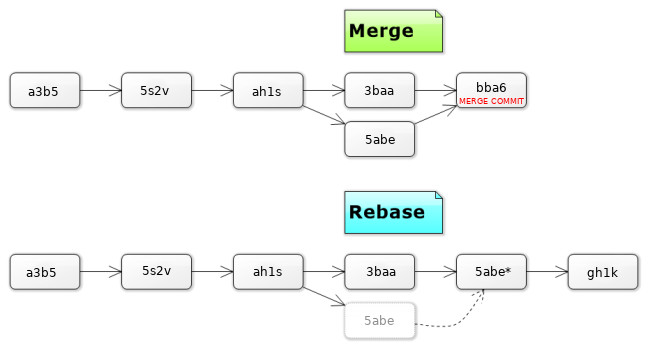
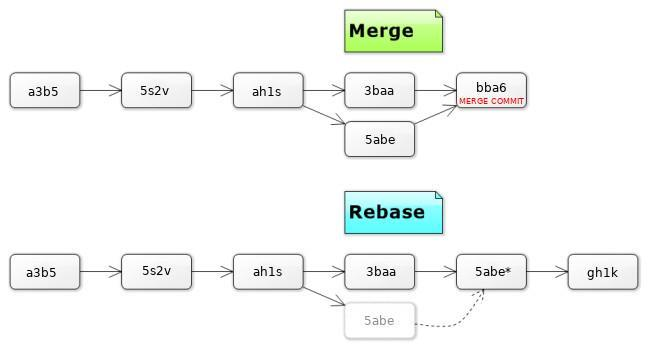
Replace png pictures with jpg
With compression quality 80%, it saves half of images size.

diff --git a/slides/index.html b/slides/index.html
@@ -89,7 +89,7 @@
                 <h2>VCS to dobra rzecz</h2>
 
                 <p>
-                    <img src="img/before-vcs.png" style="margin-bottom:0"/><br/>
+                    <img src="img/before-vcs.jpg" style="margin-bottom:0"/><br/>
                     <small>Tak to się kiedyś robiło ;)</small>
                 </p>
                 <p>
@@ -108,14 +108,14 @@
 
             <section data-transition="slide-in none-out">
                 <h2>Konsola & Gitk & Kdiff3</h2>
-                <img src="img/many-git-tools.png" style="border:none; box-shadow:none"/>
+                <img src="img/many-git-tools.jpg" style="border:none; box-shadow:none"/>
                 <aside class="notes">
                     Poprzez narzędzia mamy na myśli również integracje w IDE.
                 </aside>
             </section>
             <section data-transition="none-in slide-out">
                 Wielu ludzi upiera się, że zarządzania gitem z konsoli nie spróbuje, że pisanie zamiast klikania to przeżytek
-                <img src="img/daj-szanse-konsoli.png"/>
+                <img src="img/daj-szanse-konsoli.jpg"/>
             </section>
         </section>
 
@@ -250,7 +250,7 @@
             </section>
             <section>
                 <h3>Przykładowa konfiguracja</h3>
-                <img src="img/example-gitconfig.png"/>
+                <img src="img/example-gitconfig.jpg"/>
             </section>
             <section>
                 Pytania?
@@ -341,7 +341,7 @@
         <section>
             <section>
                 <h3>Flow</h3>
-                <img src="img/git_working.png"/>
+                <img src="img/git_working.jpg"/>
             </section>
             <section>
                 <h2>Working directory,</br>staging area, commit</h2>
@@ -406,56 +406,56 @@
                 Ukazanie różnicy pomiędzy ostatnią wersją, a jednocześnie snapshot wszystkich plików w projekcie, posiadający identyfikator
                 SHA-1.
                 <p>
-                    <img src="img/commit-example.png"/>
+                    <img src="img/commit-example.jpg"/>
                 </p>
             </section>
             <section data-transition="slide-in none-out">
                 <h3>Przykład stagowania (git add)</h3>
-                <img src="img/git-work-example/git-work-example-part1.png"/>
+                <img src="img/git-work-example/git-work-example-part1.jpg"/>
             </section>
             <section data-transition="none-in none-out">
                 <h3>Przykład stagowania (git add)</h3>
-                <img src="img/git-work-example/git-work-example-part2.png"/>
+                <img src="img/git-work-example/git-work-example-part2.jpg"/>
             </section>
             <section data-transition="none-in none-out">
                 <h3>Przykład stagowania (git add)</h3>
-                <img src="img/git-work-example/git-work-example-part3.png"/>
+                <img src="img/git-work-example/git-work-example-part3.jpg"/>
             </section>
             <section data-transition="none-in none-out">
                 <h3>Przykład stagowania (git add)</h3>
-                <img src="img/git-work-example/git-work-example-part4.png"/>
+                <img src="img/git-work-example/git-work-example-part4.jpg"/>
             </section>
             <section data-transition="none-in none-out">
                 <h3>Przykład stagowania (git add)</h3>
-                <img src="img/git-work-example/git-work-example-part5.png"/>
+                <img src="img/git-work-example/git-work-example-part5.jpg"/>
             </section>
             <section data-transition="none-in none-out">
                 <h3>Przykład stagowania (git add)</h3>
-                <img src="img/git-work-example/git-work-example-part6.png"/>
+                <img src="img/git-work-example/git-work-example-part6.jpg"/>
             </section>
             <section data-transition="none-in none-out">
                 <h3>Przykład stagowania (git add)</h3>
-                <img src="img/git-work-example/git-work-example-part7.png"/>
+                <img src="img/git-work-example/git-work-example-part7.jpg"/>
             </section>
             <section data-transition="none-in none-out">
                 <h3>Przykład stagowania (git add)</h3>
-                <img src="img/git-work-example/git-work-example-part8.png"/>
+                <img src="img/git-work-example/git-work-example-part8.jpg"/>
             </section>
             <section data-transition="none-in none-out">
                 <h3>Przykład stagowania (git add)</h3>
-                <img src="img/git-work-example/git-work-example-part9.png"/>
+                <img src="img/git-work-example/git-work-example-part9.jpg"/>
             </section>
             <section data-transition="none-in none-out">
                 <h3>Przykład stagowania (git add)</h3>
-                <img src="img/git-work-example/git-work-example-part10.png"/>
+                <img src="img/git-work-example/git-work-example-part10.jpg"/>
             </section>
             <section data-transition="none-in none-out">
                 <h3>Przykład stagowania (git add)</h3>
-                <img src="img/git-work-example/git-work-example-part11.png"/>
+                <img src="img/git-work-example/git-work-example-part11.jpg"/>
             </section>
             <section data-transition="none-in slide-out">
                 <h3>Przykład stagowania (git add)</h3>
-                <img src="img/git-work-example/git-work-example-part12.png"/>
+                <img src="img/git-work-example/git-work-example-part12.jpg"/>
             </section>
             <section>
                 Pytania?
@@ -562,7 +562,7 @@
             <section data-transition="slide-in none-out">
                 <!-- https://github.com/git-warsztaty/devwarsztaty-rebase-interactive-demo -->
                 <h3>Demo rebase --interactive</h3>
-                <img src="img/rebase-interactive-example-in-notepad.png">
+                <img src="img/rebase-interactive-example-in-notepad.jpg">
                 <aside class="notes">
                     <b>Krzysiek</b><br/>
                     <br/>
@@ -605,7 +605,7 @@
             <section>
                 <h2>Branche</h2>
                 <p>
-                    <img src="img/branches.png">
+                    <img src="img/branches.jpg">
                 </p>
                 <a href="https://learngitbranching.js.org/">Learning branching</a>
                 <aside class="notes">
@@ -622,7 +622,7 @@
                     Commity między branchami można przekładać
                 </p>
                 <p>
-                    <img src="img/cherrypick.png">
+                    <img src="img/cherrypick.jpg">
                 </p>
             </section>
             <section>
@@ -645,13 +645,13 @@
             <section>
                 <h2>Merge</h2>
                 <p>
-                    <img src="img/merge-commit.png">
+                    <img src="img/merge-commit.jpg">
                 </p>
             </section>
             <section>
                 <h2>Rebase</h2>
                 <p>
-                    <img src="img/git-rebasing-example.png">
+                    <img src="img/git-rebasing-example.jpg">
                 </p>
             </section>
             <section>
@@ -747,28 +747,28 @@
                 Git
                 <b>nie jest</b> scentralizowanym systemem kontroli wersji
                 <p>
-                    <img src="img/centralized_vcs_illustration.png"/>
+                    <img src="img/centralized_vcs_illustration.jpg"/>
                 </p>
             </section>
             <section data-transition="slide-in none-out">
                 Git jest
                 <b>zdecentralizowanym</b> systemem kontroli wersji
                 <p>
-                    <img src="img/distributed_vcs_illustration.png"/>
+                    <img src="img/distributed_vcs_illustration.jpg"/>
                 </p>
             </section>
             <section data-transition="none-in slide-out">
                 Git jest
                 <b>zdecentralizowanym</b> systemem kontroli wersji
                 <p>
-                    <img src="img/centralized-is-bad-idea.png"/>
+                    <img src="img/centralized-is-bad-idea.jpg"/>
                 </p>
             </section>
             <section>
                 <h3>Git to w zasadzie baza danych</h3>
                 Git to VCS na który można patrzeć, jak na rozproszoną bazę danych, opartą na streamie snapshotów plikow
                 <p>
-                    <img src="img/distributed.png"/>
+                    <img src="img/distributed.jpg"/>
                 </p>
             </section>
             <section>
@@ -871,25 +871,25 @@
             <section data-transition="slide-in none-out">
                 <h3>git log z grafem</h3>
                 <p>
-                    <img src="img/git-log-graph.png"/>
+                    <img src="img/git-log-graph.jpg"/>
                 </p>
             </section>
             <section data-transition="none-in none-out">
                 <h3>git log z jednoliniowymi wynikami</h3>
                 <p>
-                    <img src="img/git-log-oneline.png"/>
+                    <img src="img/git-log-oneline.jpg"/>
                 </p>
             </section>
             <section data-transition="none-in slide-out">
                 <h3>git log z pokazaną statystyką i diffem</h3>
                 <p>
-                    <img src="img/git-log-stat-patch.png"/>
+                    <img src="img/git-log-stat-patch.jpg"/>
                 </p>
             </section>
             <section>
                 <h3>gitk</h3>
                 <p>
-                    <img src="img/gitk.png"/>
+                    <img src="img/gitk.jpg"/>
                 </p>
             </section>
             <section>
@@ -1144,7 +1144,7 @@
             <section>
                 <h3>gitk pokazujący cały stan projektu</h3>
                 <p>
-                    <img src="img/gitk-tree.png">
+                    <img src="img/gitk-tree.jpg">
                 </p>
                 <small class="fragment">
                     Przejrzeć drzewo można również w konsoli, ale to się przydaje głównie do skryptów<br/>
@@ -1274,7 +1274,7 @@
             <section>
                 <h2>git reflog</h2>
                 <p>
-                    <img src="img/reflog.png">
+                    <img src="img/reflog.jpg">
                 </p>
                 <aside class="notes">
                     <b>Krzysiek</b><br/>
@@ -1347,7 +1347,7 @@
             <section>
                 <h2>Forki & Pull requesty</h2>
                 <p>
-                    <img src="img/forkAndPullModel.png">
+                    <img src="img/forkAndPullModel.jpg">
                 </p>
             </section>
             <section>
@@ -1388,14 +1388,14 @@
             <section>
                 W svn commit to diff zmienionych plików (różnica)
                 <p>
-                    <img src="img/deltas.png">
+                    <img src="img/deltas.jpg">
                 </p>
             </section>
             <section>
                 W git commit to snapshot
                 <b>wszystkich </b> plików
                 <p>
-                    <img src="img/snapshots.png">
+                    <img src="img/snapshots.jpg">
                 </p>
                 reprezentowany za pomocą hasha SHA-1
             </section>
@@ -1426,7 +1426,7 @@
                 <h2>Git nie śledzi plików</h2>
                 <p>W przeciwieństwie do niektórych VCS,
                     <br>git nie śledzi plików, wyłącznie ich zawartość</p>
-                <img src="img/git-doesnt-track.png">
+                <img src="img/git-doesnt-track.jpg">
             </section>
             <section>
                 Pytania?
@@ -1456,7 +1456,7 @@
                 <h2>Git blame</h2>
                 Który to ?!
                 <p>
-                    <img src="img/git-blame.png">
+                    <img src="img/git-blame.jpg">
                 </p>
             </section>
             <section>
@@ -1518,7 +1518,7 @@
                 <h2>Credentials helper</h2>
                 Każdy push, fetch (czyli również pull), wymaga autoryzacji...
                 <p>
-                    <img src="img/credentials.png">
+                    <img src="img/credentials.jpg">
                 </p>
             </section>
 
@@ -1581,7 +1581,7 @@
                 </p>
                 <p>
                     <small>Lub <i>checkbox</i> w trakcie instalacji gita:</small>
-                    <img style="margin-top:0; float:bottom" src="img/credential-manager-during-installation.png">
+                    <img style="margin-top:0; float:bottom" src="img/credential-manager-during-installation.jpg">
                 </p>
                 <p>
                     <small>
@@ -1620,7 +1620,7 @@
         <section>
             <section>
                 <h2>Git hooks</h2>
-                <img src="img/git-hooks.png"/>
+                <img src="img/git-hooks.jpg"/>
             </section>
         </section>
 
@@ -1633,7 +1633,7 @@
 
         <section>
             <h2>Dziękujemy!</h2>
-            <img src="img/thank-you.png"/>
+            <img src="img/thank-you.jpg"/>
         </section>
     </div>
 </div>
